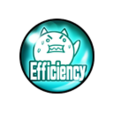
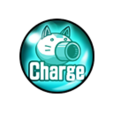
Adding range ability orb

Changed region(s): [[0.2389, 0.1858, 0.7965, 0.7434]]

diff --git a/js/cat-base/upgrade.js b/js/cat-base/upgrade.js
@@ -9,11 +9,17 @@ export default async function loadUpgradeInfo(settings) {
     for(let x = 0; x < settings.abilities.abilityNames.length; x++) {
         wrapper.appendChild(createUpgradeLevelBox(settings.abilities.abilityNames[x], settings.abilities.abilityLevelCap, settings.abilities.abilityPlusLevelCap, res[x + 1], x));
     }
+
+    const rangeUpgrade = wrapper.querySelectorAll(".upgrade-box").item(settings.abilities.rangePosition + 1);
+    rangeUpgrade.querySelector(".upgrade-level").max = settings.abilities.rangeLevelCap;
+    rangeUpgrade.querySelector(".upgrade-plus-text").classList.add("hidden");
+    rangeUpgrade.querySelector(".upgrade-plus-level").classList.add("hidden");
 }
 
 function createCGSBox(isOwned) {
     const wrapper = document.createElement("div");
     wrapper.classList.add("v-align");
+    wrapper.classList.add("upgrade-box");
 
     const title = document.createElement("h4");
     title.textContent = "The Cat God";
@@ -42,6 +48,7 @@ function createCGSBox(isOwned) {
 function createUpgradeLevelBox(name, levelCap, levelPlusCap, currentLevelData, id) {
     const wrapper = document.createElement("div");
     wrapper.classList.add("v-align");
+    wrapper.classList.add("upgrade-box");
 
     const title = document.createElement("h4");
     title.textContent = name;
@@ -66,7 +73,14 @@ function createUpgradeLevelBox(name, levelCap, levelPlusCap, currentLevelData, i
     levelInput = levelInputElm;
     plusLevelInput = plusInputElm;
 
-    levelWrapper.append(levelElm, "+", plusLevelElm);
+    levelElm.classList.add("upgrade-level");
+    plusLevelElm.classList.add("upgrade-plus-level");
+
+    const plusSign = document.createElement("p");
+    plusSign.classList.add("upgrade-plus-text");
+    plusSign.textContent = "+";
+
+    levelWrapper.append(levelElm, plusSign, plusLevelElm);
     wrapper.append(title, image, levelWrapper);
     return wrapper;
 }

diff --git a/js/cat-base/arrow-box.js b/js/cat-base/arrow-box.js
@@ -8,10 +8,10 @@ export default function createArrowNumberBox(cap, currentValue, changeCallback, 
     labelInput.dataset.lastValue = currentValue;
 
     labelInput.onchange = () => {
-        if(parseInt(labelInput.value) < min) {
-            labelInput.value = min;
-        } else if(parseInt(labelInput.value) > cap) {
-            labelInput.value = cap;
+        if(parseInt(labelInput.value) < parseInt(labelInput.min)) {
+            labelInput.value = parseInt(labelInput.min);
+        } else if(parseInt(labelInput.value) > parseInt(labelInput.max)) {
+            labelInput.value = parseInt(labelInput.max);
         }
 
         changeCallback(parseInt(labelInput.dataset.lastValue), parseInt(labelInput.value));

diff --git a/js/index.js b/js/index.js
@@ -153,7 +153,7 @@ function initializeLocalStorage(settings, categories) {
     
     // Ability Upgrades --------------------------------------------
     if(!window.localStorage.getItem("abo")) {
-        window.localStorage.setItem("abo", "0+0-0+0-0+0-0+0-0+0-0+0-0+0-0+0-0+0");
+        window.localStorage.setItem("abo", "1+0-1+0-1+0-1+0-1+0-1+0-1+0-1+0-1+0-1+0");
     }
     if(!window.localStorage.getItem("cgs")) {
         window.localStorage.setItem("cgs", 0);

diff --git a/css/cat-base.css b/css/cat-base.css
@@ -193,3 +193,13 @@ input[type='number']::-webkit-inner-spin-button {
     aspect-ratio: 1/1;
     width: 131px;
 }
+
+.upgrade-box {
+    min-height: 180px;
+    height: 100%;
+}
+
+.upgrade-plus-text {
+    margin: 0;
+    padding: 0;
+}

diff --git a/README.md b/README.md
@@ -26,7 +26,7 @@ If for whatever reason, you need to update the unit data in your own clone of th
 - Place all unit icons in ```img/unit_icon```, using the same naming format as in that folder.
 - If a unit has a unique combination of level cap and + level cap, then give a name to that combination in ```level_cap_stats.csv```, and then reference it in ```units_###.csv```.
 - If a unit has a unique XP leveling curve, then give a name to the XP amounts in ```leveling_stats.csv```, and then reference it in ```unit_costs_###.csv```.
-- Add the unit to any relevant categories in the category folder. You can create a collection of related categories in a new file as long as the file name is in ```types.txt```.
+- Add the unit to any relevant categories in the category folder. You can create a collection of related categories in a new file as long as the file name is in ```types.txt```. Note that small collabs are defined as any collab without a unit obtained from the rare gacha.
 - If a new ability is introduced, place the image in the ```img/ability``` folder, using the same naming format as in that folder. The name must be in that format to be assigned as a talent properly.
 - If a new base type is introduced, place the image(s) in the ```img/foundation``` folder, using the same naming format as in that folder. Make sure to also update ```settings.json``` in order to assign a name to the base type and increment the total type counter.
 - NP costs per level in a talent are determined by a combination of the total NP cost and the max level of the talent via ```talent-np-map.js``` and ```ut-np-map.js``` (both of which are just json files that I didn't want to set up a fetch for). If future units introduce new NP costs per level, use these files to account for them.
